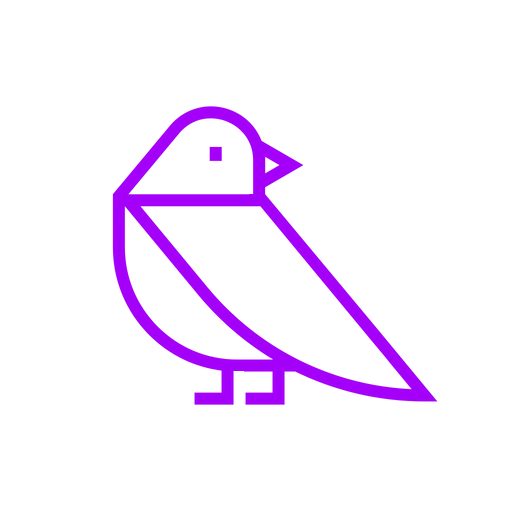
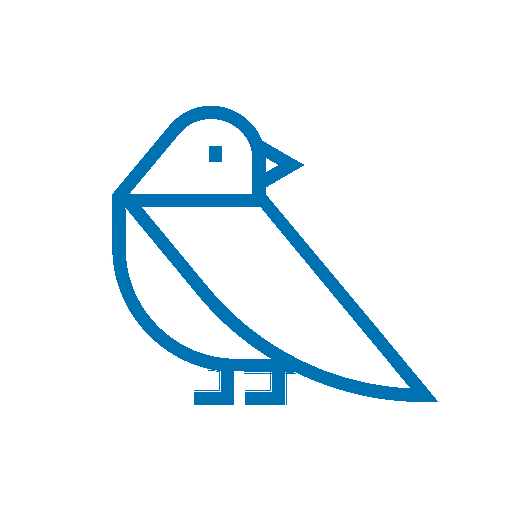
colorblind safe colors

Changed region(s): [[0.2188, 0.1875, 0.8438, 0.8125], [0.4062, 0.2812, 0.4375, 0.3438]]

diff --git a/js/many.js b/js/many.js
@@ -8,6 +8,14 @@
 
 //save to bring up a clearer dialogue
 
+const orange = "rgb(230, 159, 0)"
+const skyBlue = "rgb(86, 180, 233)"
+const blueishGreen = "rgb(0, 158, 115)"
+const yellow = "rgb(240, 228, 66)" // main background colour
+const blue = "rgb(0, 114, 178)"
+const vermilion = "rgb(213, 94, 0)"
+const reddishPurple = "rgb(204, 121, 167)"
+
 let theVolume = -24;
 let seqSteps = 8;
 let seqRows = 8;
@@ -122,19 +130,19 @@ function setup() {  // setup p5
     x: width/10,
     y: height/10*0.8,
     text: '-',
-    colour: 'rgba(255, 255, 255, 0.9)'
+    colour: yellow
   });
   faster = ({
     x: width/10*9,
     y: height/10*0.8,
     text: '+',
-    colour: 'rgba(255, 255, 255, 0.9)'
+    colour: yellow
   });
   save = ({
     x: width/2,
     y: height/10*0.75,
     text: 'Save',
-    colour: 'rgba(255, 255, 255, 0.9)',
+    colour: blue,
     status: false
   });
 
@@ -151,7 +159,7 @@ function setup() {  // setup p5
 }
 
 function welcomeScreen() {
-  background(150); // background is grey (remember 5 is maximum because of the setup of colorMode)
+  background(blueishGreen); // background is grey (remember 5 is maximum because of the setup of colorMode)
   textSize(cnvDimension/10);
   textAlign(CENTER, CENTER);
   text("Murmuration", width/2, height/10 * 2);
@@ -185,21 +193,21 @@ function createButtonPositions() {
 function drawSynth(step) { // instead of using the draw function at 60 frames a second we will call this function when something changes
 
   if(save.status){
-    background(156, 156, 184);
+    background(vermilion);
     inp.show();
     inp.value(saveText);
-    background(150); // background is grey (remember 5 is maximum because of the setup of colorMode)
+    background(vermilion); // background is grey (remember 5 is maximum because of the setup of colorMode)
     textSize(cnvDimension/20);
     textAlign(CENTER, CENTER);
     text("Copy and paste this link to share your music", width/10, height/10, (width/10) * 8, (height/10) * 3);
-    fill(99, 245, 66);
+    fill(yellow);
     ellipse(width/2, height/5*4, radius*2);
     fill(0);
     text("ok", width/2, height/5*4);
   }else{
-    // background(245, 218, 66);
+    background(blueishGreen);
     imageMode(CORNER);
-    image(sky, 0, 0, width, height);
+    // image(sky, 0, 0, width, height);
     imageMode(CENTER);
 
     for(let i = 0; i < seqRows; i++){
@@ -311,12 +319,12 @@ function handleClick(e){
         }
         setSpeed(Tone.Transport.bpm.value);
         console.log(`bpm ${Math.round(Tone.Transport.bpm.value)}`);
-        slower.colour = 'rgba(255, 0, 255, 0.9)'
+        slower.colour = vermilion;
         bpmShow = true;
         drawSynth();
         setTimeout(() => {
           bpmShow = false;
-          slower.colour = 'rgba(255, 255, 255, 0.9)';
+          slower.colour = yellow;
           drawSynth();
         }, 1000);
       }
@@ -328,12 +336,12 @@ function handleClick(e){
         }
         setSpeed(Tone.Transport.bpm.value);
         console.log(`bpm ${Math.round(Tone.Transport.bpm.value)}`);
-        faster.colour = 'rgba(255, 0, 255, 0.9)'
+        faster.colour = vermilion
         bpmShow = true;
         drawSynth();
         setTimeout(() => {
           bpmShow = false;
-          faster.colour = 'rgba(255, 255, 255, 0.9)';
+          faster.colour = yellow;
           drawSynth();
         }, 1000);
       }
@@ -341,11 +349,11 @@ function handleClick(e){
       if(isMouseInsideText(save.text, save.x, save.y)){
         console.log("save");
         save.status = true;
-        save.colour = 'rgba(255, 0, 255, 0.9)'
+        save.colour = vermilion
         saveSeq();
         drawSynth();
         setTimeout(() => {
-          save.colour = 'rgba(255, 255, 255, 0.9)';
+          save.colour = yellow;
           drawSynth();
         }, 1000);
       }
@@ -471,7 +479,7 @@ if(isNaN(savedTempo) === false){
   //drawSynth();
   setTimeout(() => {
     bpmShow = false;
-    faster.colour = 'rgba(255, 255, 255, 0.9)';
+    faster.colour = yellow;
     drawSynth();
   }, 1000);
 
